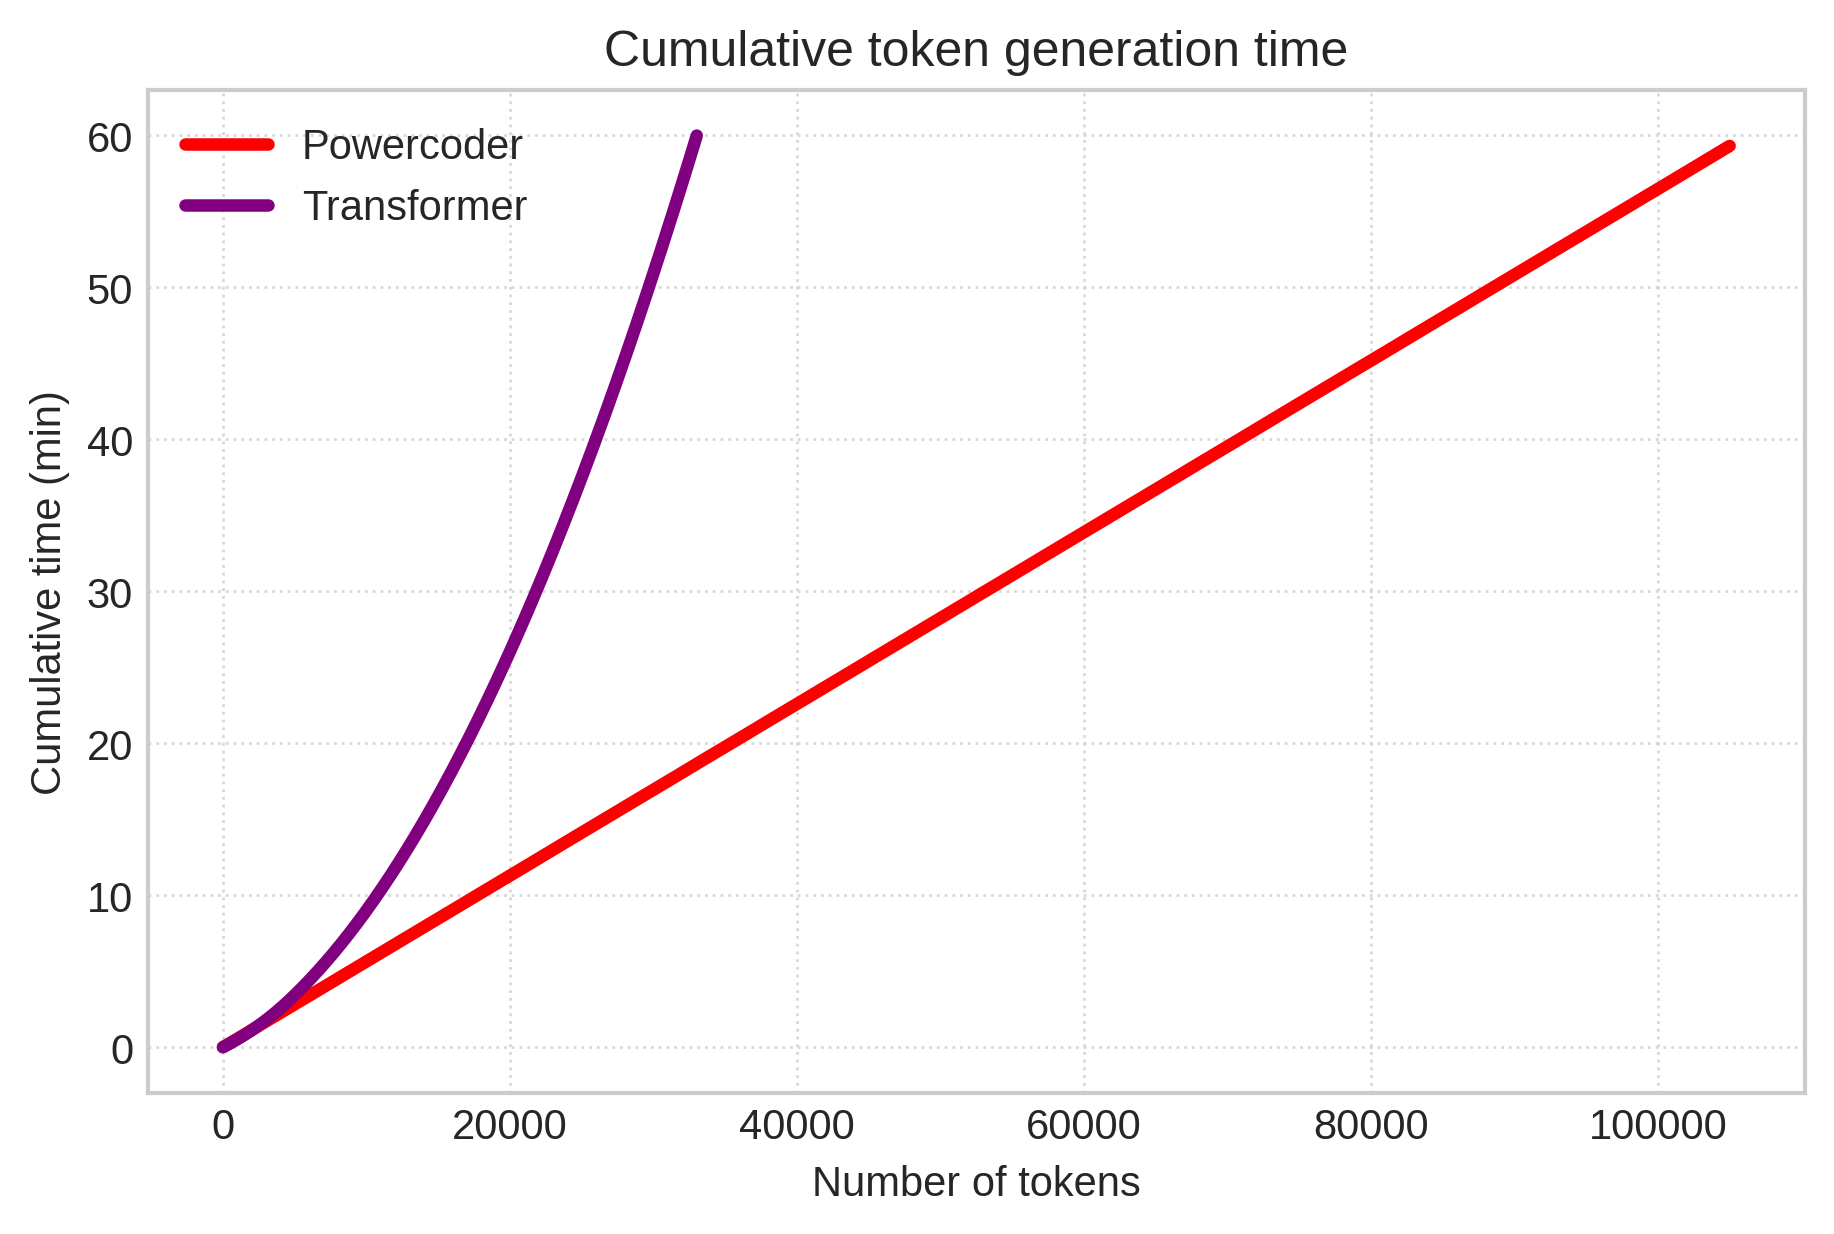
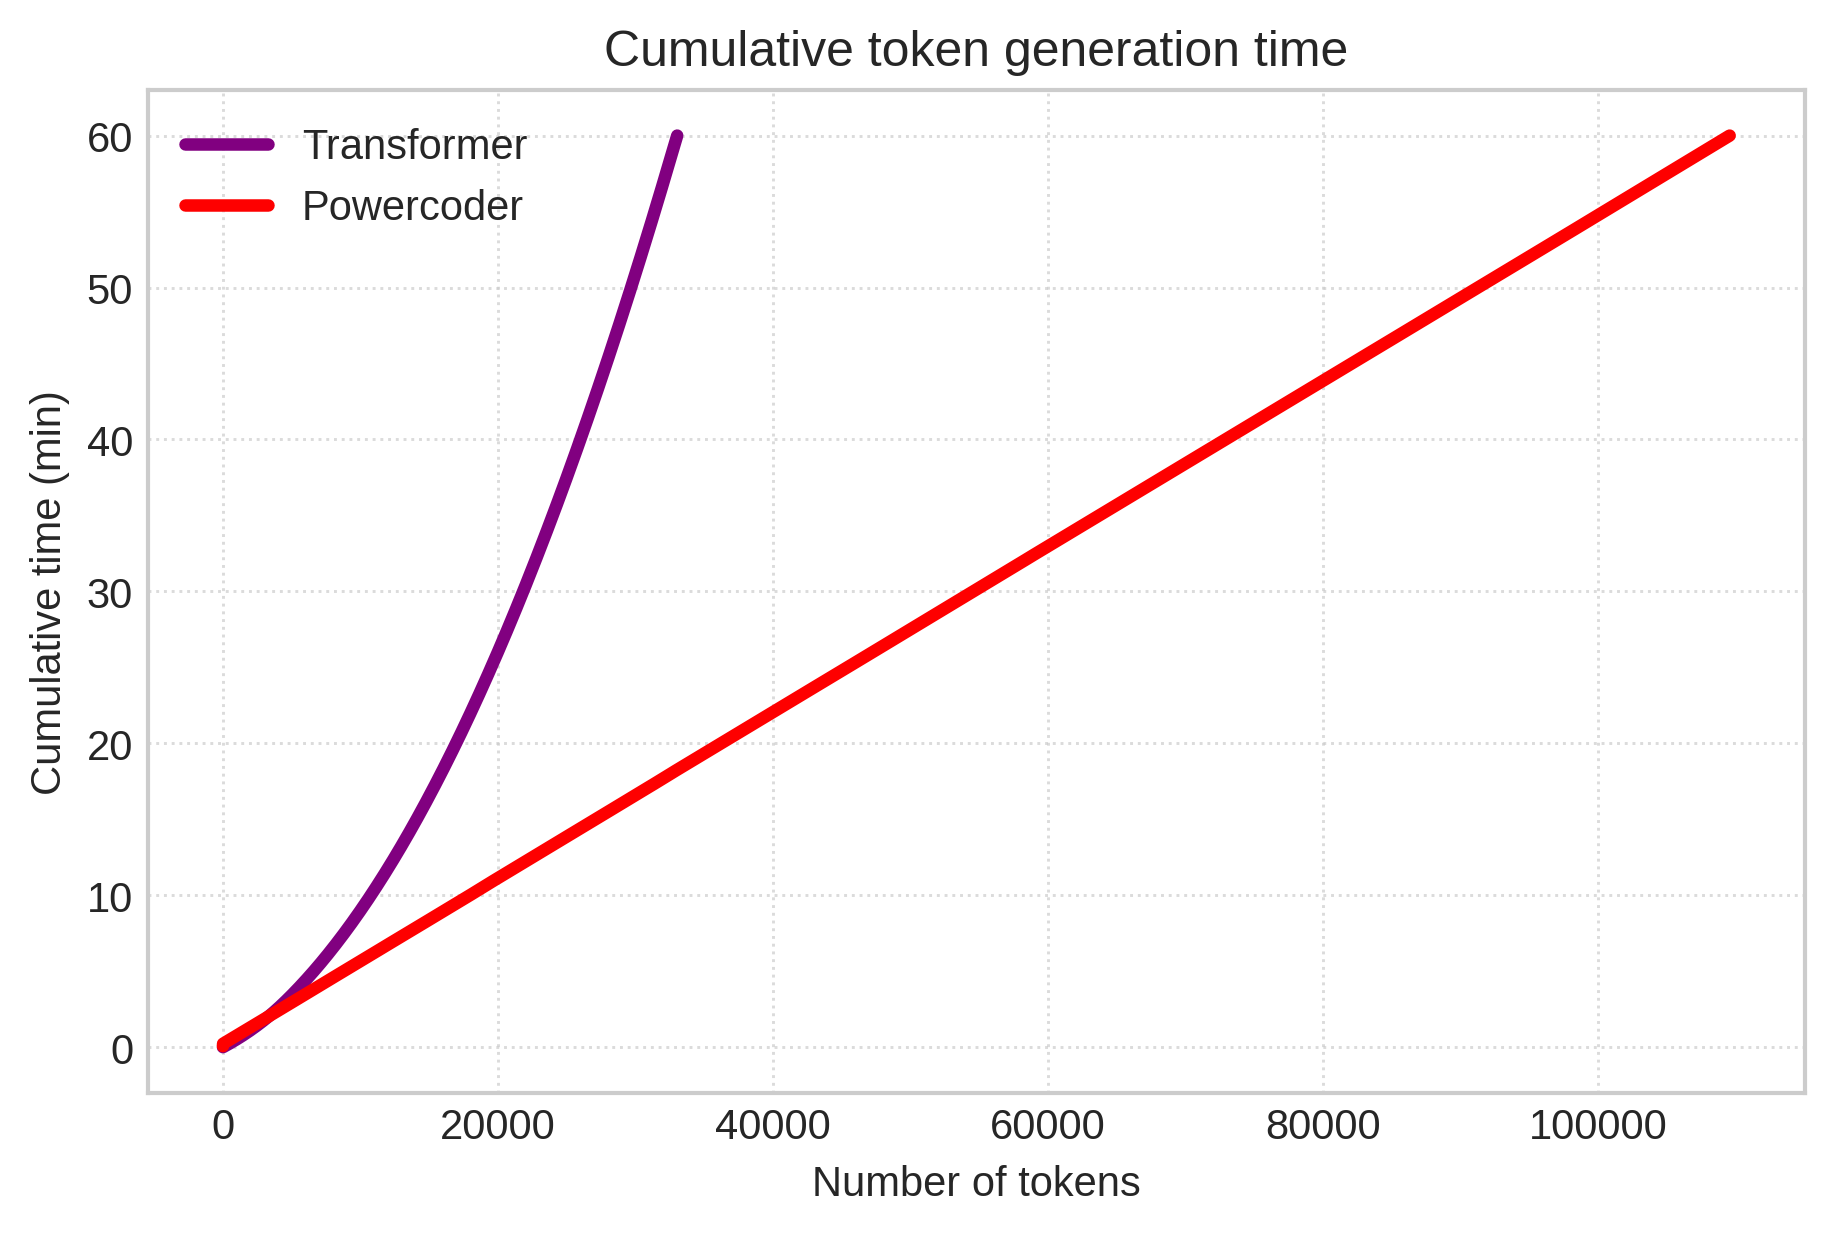
update chunk_size

diff --git a/deploy/models/powercoder/modeling_powercoder.py b/deploy/models/powercoder/modeling_powercoder.py
@@ -119,8 +119,6 @@ class PowerCoderAttention(nn.Module):
         super().__init__()
         self.config = config
         self.layer_idx = layer_idx
-        self.chunk_size = config.chunk_size
-        self.switch_over_seq_len = config.switch_over_seq_len
         self.head_dim = getattr(config, "head_dim", None) or config.hidden_size // config.num_attention_heads
         self.num_key_value_groups = config.num_attention_heads // config.num_key_value_heads
         self.scaling = self.head_dim**-0.5
@@ -141,6 +139,8 @@ class PowerCoderAttention(nn.Module):
         padding_starts: Optional[torch.Tensor],
         past_key_value: Optional[Cache] = None,
         cache_position: Optional[torch.LongTensor] = None,
+        chunk_size: Optional[int] = None,
+        switch_over_seq_len: Optional[int] = None,
         **kwargs: Unpack[FlashAttentionKwargs],
     ) -> tuple[torch.Tensor, Optional[torch.Tensor], Optional[tuple[torch.Tensor]]]:
         input_shape = hidden_states.shape[:-1]
@@ -189,9 +189,9 @@ class PowerCoderAttention(nn.Module):
                 sum_of_keys=sum_of_keys,
                 deg=2,
                 scale=self.scaling,
-                switch_over_seq_len=self.switch_over_seq_len,
+                switch_over_seq_len=switch_over_seq_len,
             )
-            if self.switch_over_seq_len is not None and key_len >= self.switch_over_seq_len:
+            if switch_over_seq_len is not None and key_len >= switch_over_seq_len:
                 past_key_value.clean_kv(self.layer_idx)
                 past_key_value.update_state(state, sum_of_keys, self.layer_idx, cache_kwargs)
 
@@ -204,7 +204,8 @@ class PowerCoderAttention(nn.Module):
                 gate_states.transpose(1, 2),
                 deg=2,
                 scale=self.scaling,
-                chunk_size=self.chunk_size, # enable chunked prefilling by default
+                chunk_size=chunk_size, # enable chunked prefilling by default
+                switch_over_seq_len=switch_over_seq_len,
             )
 
         if interpolate_exp_amount == 1:
@@ -243,6 +244,8 @@ class PowerCoderDecoderLayer(GradientCheckpointingLayer):
         use_cache: Optional[bool] = False,
         cache_position: Optional[torch.LongTensor] = None,
         position_embeddings: Optional[tuple[torch.Tensor, torch.Tensor]] = None,  # necessary, but kept here for BC
+        chunk_size: Optional[int] = None,
+        switch_over_seq_len: Optional[int] = None,
         **kwargs: Unpack[TransformersKwargs],
     ) -> tuple[torch.Tensor]:
         residual = hidden_states
@@ -256,6 +259,8 @@ class PowerCoderDecoderLayer(GradientCheckpointingLayer):
             use_cache=use_cache,
             cache_position=cache_position,
             position_embeddings=position_embeddings,
+            chunk_size=chunk_size,
+            switch_over_seq_len=switch_over_seq_len,
             **kwargs,
         )
         hidden_states = residual + hidden_states
@@ -348,6 +353,8 @@ class PowerCoderModel(PowerCoderPreTrainedModel):
         inputs_embeds: Optional[torch.FloatTensor] = None,
         use_cache: Optional[bool] = None,
         cache_position: Optional[torch.LongTensor] = None,
+        chunk_size: Optional[int] = None,
+        switch_over_seq_len: Optional[int] = None,
         **kwargs: Unpack[TransformersKwargs],
     ) -> BaseModelOutputWithPast:
         if (input_ids is None) ^ (inputs_embeds is not None):
@@ -397,6 +404,8 @@ class PowerCoderModel(PowerCoderPreTrainedModel):
                 use_cache=use_cache,
                 cache_position=cache_position,
                 position_embeddings=position_embeddings,
+                chunk_size=chunk_size,
+                switch_over_seq_len=switch_over_seq_len,
                 **kwargs,
             )
 
@@ -414,11 +423,7 @@ class PowerCoderForCausalLM(PowerCoderPreTrainedModel, GenerationMixin):
     _tp_plan = {"lm_head": "colwise_rep"}
     _pp_plan = {"lm_head": (["hidden_states"], ["logits"])}
 
-    def __init__(self, config, chunk_size=None, switch_over_seq_len=None):
-        if chunk_size is not None:
-            config.chunk_size = chunk_size
-        if switch_over_seq_len is not None:
-            config.switch_over_seq_len = switch_over_seq_len
+    def __init__(self, config):
         super().__init__(config)
         self.model = PowerCoderModel(config)
         self.vocab_size = config.vocab_size
@@ -446,6 +451,8 @@ class PowerCoderForCausalLM(PowerCoderPreTrainedModel, GenerationMixin):
         use_cache: Optional[bool] = None,
         cache_position: Optional[torch.LongTensor] = None,
         logits_to_keep: Union[int, torch.Tensor] = 0,
+        chunk_size: Optional[int] = None,
+        switch_over_seq_len: Optional[int] = None,
         **kwargs: Unpack[TransformersKwargs],
     ) -> CausalLMOutputWithPast:
         r"""
@@ -486,6 +493,10 @@ class PowerCoderForCausalLM(PowerCoderPreTrainedModel, GenerationMixin):
                 Position indices for cached key/value states when using incremental decoding.
             logits_to_keep (`Union[int, torch.Tensor]`, *optional*, defaults to 0):
                 Number of logits to compute from the end of the sequence, or specific indices to compute.
+            chunk_size (`Optional[int]`, *optional*):
+                Chunk size for training and prefilling.
+            switch_over_seq_len (`Optional[int]`, *optional*):
+                Sequence length threshold for state update.
             **kwargs:
                 Additional arguments passed to the underlying model's forward method.
 
@@ -505,6 +516,8 @@ class PowerCoderForCausalLM(PowerCoderPreTrainedModel, GenerationMixin):
             inputs_embeds=inputs_embeds,
             use_cache=use_cache,
             cache_position=cache_position,
+            chunk_size=chunk_size,
+            switch_over_seq_len=switch_over_seq_len,
             **kwargs,
         )
 

diff --git a/deploy/generate.py b/deploy/generate.py
@@ -7,7 +7,7 @@ import time
 import math
 import json
 from tqdm import tqdm
-import models.powercoder
+import models.powercoder  # noqa: F401
 from transformers import AutoModelForCausalLM, AutoTokenizer, GenerationConfig, TextIteratorStreamer, AutoConfig
 
 GREEN = "\033[32m"
@@ -18,7 +18,7 @@ RESET = "\033[0m"
 def parse_args():
     parser = argparse.ArgumentParser(description="Generate with power attention")
     # model config
-    parser.add_argument('--model', type=str, default='./models/powercoder')
+    parser.add_argument('--model', type=str, default='manifestai/powercoder-3b')
     parser.add_argument('--tokenizer', type=str, default='bigcode/starcoder2-3b')
     parser.add_argument('--chunk-size', type=int, default=None)
     parser.add_argument('--switch-over-seq-len', type=int, default=None)
@@ -61,6 +61,8 @@ def _generate(model: AutoModelForCausalLM, tokenizer: AutoTokenizer, args: argpa
                     attention_mask=inputs.attention_mask,
                     streamer=streamer,
                     eos_token_id=tokenizer.eos_token_id if not args.no_eos else None,
+                    chunk_size=args.chunk_size,
+                    switch_over_seq_len=args.switch_over_seq_len,
                 )
         thread = threading.Thread(target=generate_func)
         thread.start()
@@ -147,6 +149,8 @@ def _generate(model: AutoModelForCausalLM, tokenizer: AutoTokenizer, args: argpa
             inputs.input_ids,
             generation_config=config,
             attention_mask=inputs.attention_mask,
+            chunk_size=args.chunk_size,
+            switch_over_seq_len=args.switch_over_seq_len,
         )
         print(tokenizer.decode(outputs[0], skip_special_tokens=True))
 
@@ -176,12 +180,12 @@ def main():
     assert not (args.input and args.input_file), "Cannot provide both --input and --input_file"
     print(f"{BLUE}args: {GREEN}{args.__dict__}{RESET}")
     if 'power' in args.model:
-        model = AutoModelForCausalLM.from_pretrained(args.model, chunk_size=args.chunk_size, switch_over_seq_len=args.switch_over_seq_len)
+        model = AutoModelForCausalLM.from_pretrained(args.model, trust_remote_code=True)
     else:
         config = AutoConfig.from_pretrained(args.model)
         if args.disable_sliding_window:
             config.sliding_window = None
-        model = AutoModelForCausalLM.from_pretrained(args.model, config=config)
+        model = AutoModelForCausalLM.from_pretrained(args.model, config=config, trust_remote_code=True)
     tokenizer = AutoTokenizer.from_pretrained(args.tokenizer)
     model.eval()
     model.to("cuda")

diff --git a/deploy/train.py b/deploy/train.py
@@ -8,8 +8,8 @@ import time
 import gc
 import wandb
 import logging
-from typing import Any, Callable
 import models.powercoder  # noqa: F401
+from typing import Any, Callable
 import datasets
 from transformers import AutoModelForCausalLM, AutoTokenizer, AutoConfig
 
@@ -36,6 +36,7 @@ def parse_args():
     parser.add_argument('--model', type=str, default='./models/powercoder')
     parser.add_argument('--tokenizer', type=str, default='bigcode/starcoder2-3b')
     parser.add_argument('--chunk_size', type=int, default=None, help='Chunk size to use: None for full sequence')
+    parser.add_argument('--switch_over_seq_len', type=int, default=None, help='Sequence length threshold for chunked form')
     # training config
     parser.add_argument('--batch_size', type=int, default=1)
     parser.add_argument('--block_size', type=int, default=16384)
@@ -137,7 +138,7 @@ def main():
     logger = make_logger(args)
     print(f"{BLUE}args: {GREEN}{args.__dict__}{RESET}")
 
-    cfg = AutoConfig.from_pretrained(args.model, **model_config, chunk_size=args.chunk_size)
+    cfg = AutoConfig.from_pretrained(args.model, **model_config)
     print(f"{BLUE}cfg: {GREEN}{cfg}{RESET}")
 
     tokenizer = AutoTokenizer.from_pretrained(args.tokenizer, use_fast=True)
@@ -179,7 +180,7 @@ def main():
             with torch.autocast(device_type=device, dtype=torch.bfloat16) if not args.no_amp else nullcontext():
                 batch = {k: v.to(device, non_blocking=True) for k, v in get_next_batch().items()}
                 batch_sample.append(tokenizer.decode(batch['input_ids'][0][:20].tolist(), skip_special_tokens=True))
-                outputs = model(**batch)
+                outputs = model(**batch, chunk_size=args.chunk_size, switch_over_seq_len=args.switch_over_seq_len)
                 loss = outputs.loss
             loss.backward()
         if args.grad_clip != 0.0:

diff --git a/deploy/models/powercoder/configuration_powercoder.py b/deploy/models/powercoder/configuration_powercoder.py
@@ -156,8 +156,6 @@ class PowerCoderConfig(PretrainedConfig):
         residual_dropout=0.0,
         embedding_dropout=0.0,
         use_bias=True,
-        chunk_size=None,
-        switch_over_seq_len=None,
         **kwargs,
     ):
         self.vocab_size = vocab_size
@@ -178,8 +176,6 @@ class PowerCoderConfig(PretrainedConfig):
         self.attention_dropout = attention_dropout
         self.residual_dropout = residual_dropout
         self.embedding_dropout = embedding_dropout
-        self.chunk_size = chunk_size
-        self.switch_over_seq_len = switch_over_seq_len
         # Validate the correctness of rotary position embeddings parameters
         # BC: if there is a 'type' field, move it to 'rope_type'.
         if self.rope_scaling is not None and "type" in self.rope_scaling:

diff --git a/deploy/plot.py b/deploy/plot.py
@@ -128,8 +128,6 @@ def main() -> None:
         durations = reconstruct_token_durations(inst)
         if not durations:
             continue
-        # x-axis: token indices starting at 1
-        token_idx = list(range(1, len(durations) + 1))
         # cumulative times (seconds)
         cum = []
         s = 0.0
@@ -137,6 +135,8 @@ def main() -> None:
             s += d
             cum.append(s)
 
+        # x-axis: token indices starting at 1
+        token_idx = list(range(1, len(cum) + 1))
         label = label_for_instance(inst)
 
         # Plot cumulative

diff --git a/retention/experimental/__init__.py b/retention/experimental/__init__.py
@@ -1,6 +1,9 @@
 from retention.vidrial import power_retention, power_retention_inference
 from retention.create_inputs import create_inputs, create_inference_inputs, inference_input_properties, inference_output_properties, input_properties, output_properties
 from vidrial.kernels.flash.interface import flash
+import logging
+
+logging.warning("Using experimental features of retention. Experimental features may not be bug-free and may be changed without notice. Use at your own discretion.")
 
 __all__ = [
     'power_retention',

diff --git a/deploy/serve.py b/deploy/serve.py
@@ -22,9 +22,7 @@ import time
 import uuid
 from typing import Any, Dict, Generator, List, Optional
 
-import models.powercoder
-
-import models.powercoder
+import models.powercoder  # noqa: F401
 import torch
 import uvicorn
 from fastapi import FastAPI, HTTPException

diff --git a/README.md b/README.md
@@ -12,15 +12,15 @@ Documentation: [https://m-a-n-i-f-e-s-t.github.io/retention/](https://m-a-n-i-f-
 
 ### Training Performance
 
-On a given flops budget, power-retention-based models achieves the lowest perplexity. 
-![Power Retention is flops optimal on long context training](./plots/flops.png)
+On a wide range of FLOPs budgets, power retention models achieve the lowest perplexity. 
+![Power Retention is FLOP-optimal on long context training](./plots/flops.png)
 
 ### Inference Performance
-On a head-to-head comparison in long-context generation tasks, power-retention-based model like [PowerCoder](HUGGINGFACE_URL) is able to attain 4x token-througput than transformer-based models.
+In a head-to-head comparison on long-context generation, power retention models like [PowerCoder](HUGGINGFACE_URL) are able to attain vastly greater token througput than transformers.
 
-![Power Retention is flops optimal on long context training](./plots/generation_time.png)
+![Power Retention is faster on long context inference](./plots/generation_time.png)
 
-*(Measurement done on 2 3B parameter models on A100 with the only difference being the attention layer, with prefill length of 2048)*
+*(Measured above is a 3B-parameter models on an A100, with prefill length of 2048.)*
 
 ### Features
 
@@ -54,6 +54,9 @@ All other dependencies (PyTorch, Ninja build system, etc.) will be automatically
 
 ## Usage
 
+For practical deployment guideline, refer to [deployment](https://github.com/m-a-n-i-f-e-s-t/retention/tree/main/deploy#readme).
+
+### Training
 The main entry point is the `power_retention` function, which implements symmetric power retention. Here's a basic example:
 
 ```python
@@ -81,6 +84,62 @@ output = power_retention(
     log_G=log_G,          # Optional gating tensor
     deg=2,                # Power parameter p
     chunk_size=128,       # Size of chunks for processing long sequences
+)
+```
+
+### Inference
+
+For inference, a separate interface `power_retention_inference` is provided, which allows for constant-time token generation regardless of context size.
+
+```python
+import torch
+from retention import power_retention_inference
+
+# Create input tensors
+batch_size = 2
+seq_len = 2048
+num_heads = 8
+head_dim = 64
+
+Q = torch.randn(batch_size, 1, num_heads, head_dim, device='cuda', dtype=torch.bfloat16)
+K = torch.randn(batch_size, seq_len, num_heads, head_dim, device='cuda', dtype=torch.bfloat16)
+V = torch.randn_like(K)
+
+# Optional gating tensor
+log_G = torch.nn.functional.logsigmoid(
+    torch.randn(batch_size, seq_len, num_heads, dtype=torch.float32, device='cuda')
+)
+
+# Calling inference without initial state
+out, state, sum_of_keys = power_retention_inference(
+  Q=Q, K=K, V=V, log_G=log_G,
+  initial_state=None,          # initial state to be queried from
+  sum_of_keys=None,            # initial normalization factor
+  deg=2,                       # Power parameter p
+  switch_over_seq_len=1024     # minimum sequence length to trigger state update
+)
+```
+The first call to `power_retention_inference` usually provides `K`, `V` as the arguments, since there's no initial state. Once the sequence size of `K` and `V` grows beyond the `switch_over_seq_len`, a state update will happen, converting `K, V` of shape `batch x seq_len x num_heads x head_dim` into a state of shape `batch x num_heads x D x head_dim`, where `D` is controlled by the power parameter `p`. `sum_of_keys` are the accumulated normalization factor, having a shape of `batch x num_heads x D`.
+
+You always need to keep the state and sum_of_keys around for the next inference call, just like KV cache. However, they size do not grow with context size, unlike KV cache.
+
+```python
+# Calling inference again, with initial state, with a new key and new value
+Q = torch.randn(batch_size, 1, num_heads, head_dim, device='cuda', dtype=torch.bfloat16)
+K = torch.randn_like(Q)
+V = torch.randn_like(Q)
+
+# Optional gating tensor
+log_G = torch.nn.functional.logsigmoid(
+    torch.randn(batch_size, 1, num_heads, dtype=torch.float32, device='cuda')
+)
+
+new_out, new_state, new_sum_of_keys = power_retention_inference(
+  Q=Q, K=K, V=V, log_G=log_G,
+  initial_state=state,         # initial state to be queried from
+  sum_of_keys=sum_of_keys,     # initial normalization factor
+  deg=2,                       # Power parameter p
+  switch_over_seq_len=1024     # minimum sequence length to trigger state update
 )
 ```
 
@@ -162,39 +221,15 @@ mkdocs gh-deploy
 
 ### Training Example
 
-To immediately see the kernel in action, `cd train` and use:
+To immediately see the kernel in action, `cd deploy` and use:
 
 ```bash
-# Create the dataset first
-python prepare_owt.py
-
-# Single GPU training
 python train.py \
-  --batch_size=32 \
-  --attention_kernel=power \
-  --degree=2 \
-  --chunk_size=128 \
-  --disable_gating=False
-
-# Multi-GPU training with DDP (example with 4 GPUs)
-torchrun --standalone --nproc_per_node=4 train.py \
-  --batch_size=32 \
-  --attention_kernel=power \
-  --degree=2 \
-  --chunk_size=128 \
-  --disable_gating=False
+  --batch_size=2 \
+  --block_size=16384 \
+  --chunk_size=1024
 ```
 
-For distributed training across multiple nodes:
-```bash
-# On the first (master) node with IP 123.456.123.456:
-torchrun --nproc_per_node=8 --nnodes=2 --node_rank=0 --master_addr=123.456.123.456 --master_port=1234 train.py
-
-# On the worker node:
-torchrun --nproc_per_node=8 --nnodes=2 --node_rank=1 --master_addr=123.456.123.456 --master_port=1234 train.py
-```
-
-Note: If your cluster does not have Infiniband interconnect, prepend `NCCL_IB_DISABLE=1` to the commands.
 
 ## Contributing
 
